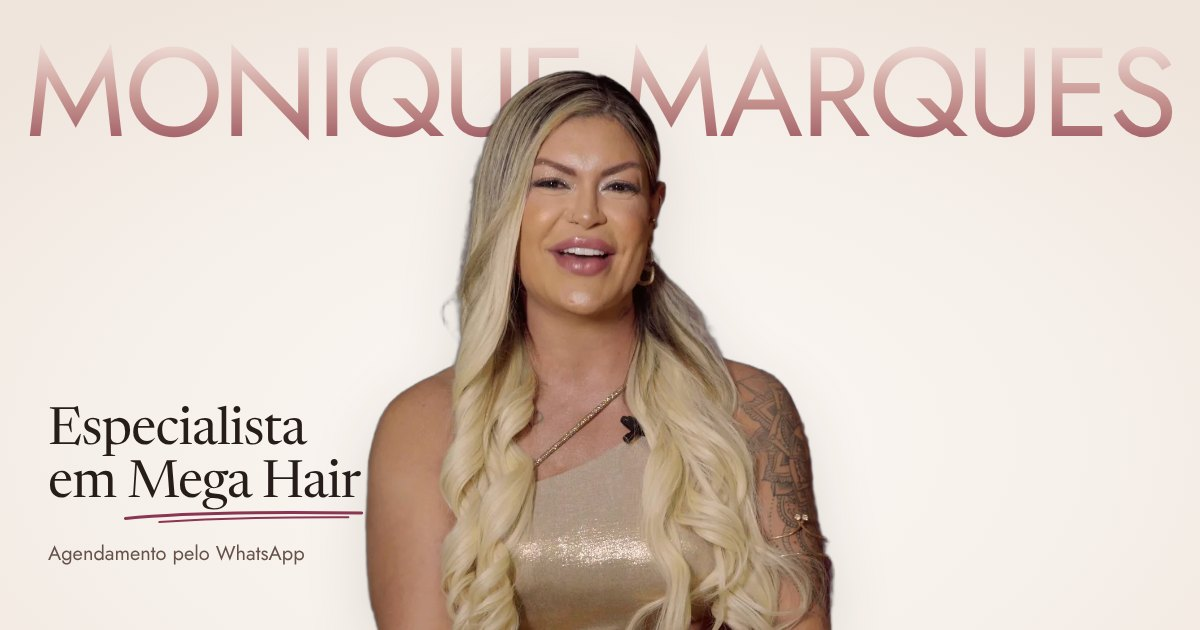
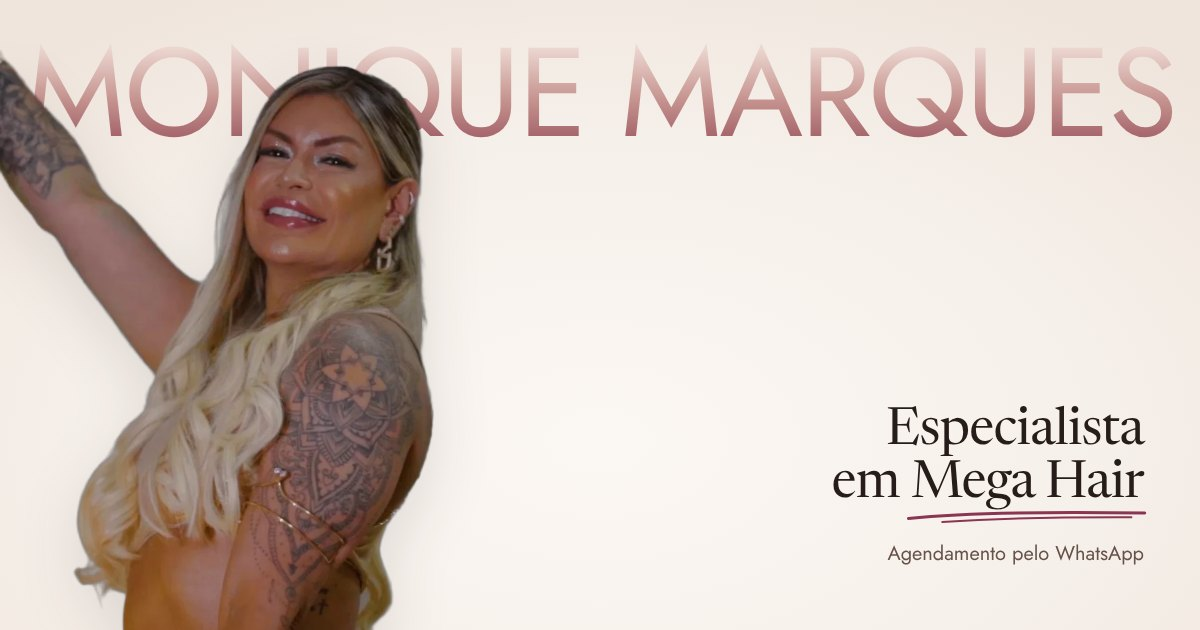
Usa a foto da hero recortada na imagem de compartilhamento
A cliente de braço levantado, sem fundo, encostada na borda esquerda
para o braço sair da imagem; texto passa para a direita.

Claude-Session: https://claude.ai/code/session_015bKPFZzAK3sGsY4fHKsDsH

diff --git a/docs/DESIGN-SPEC.md b/docs/DESIGN-SPEC.md
@@ -117,7 +117,7 @@ Marcos do clipe: `FILM` em `opening.ts`.
 | `images/studio/espelho.webp` | idem, 7,0 s | Por dentro do Studio |
 | `images/studio/caixa.webp` | idem, 22,8 s | Por dentro do Studio |
 | `images/studio/sacola.webp` | idem, 27,4 s | CTA final |
-| `og-image.jpg` | 1200 × 630: frame 36,90 s recortado (fundo removido com rembg / BiRefNet), por cima do nome gigante | compartilhamento |
+| `og-image.jpg` | 1200 × 630: frame 37,25 s (a foto da hero) recortado, com o braço saindo pela borda esquerda (fundo removido com rembg / BiRefNet), por cima do nome gigante | compartilhamento |
 | `media/opening/*`, `media/film/*` | vídeo da inauguração | abertura e diálogo do vídeo |
 | `brand/*.svg` | logo dourada vetorizada | header, abertura, rodapé, favicon |
 
